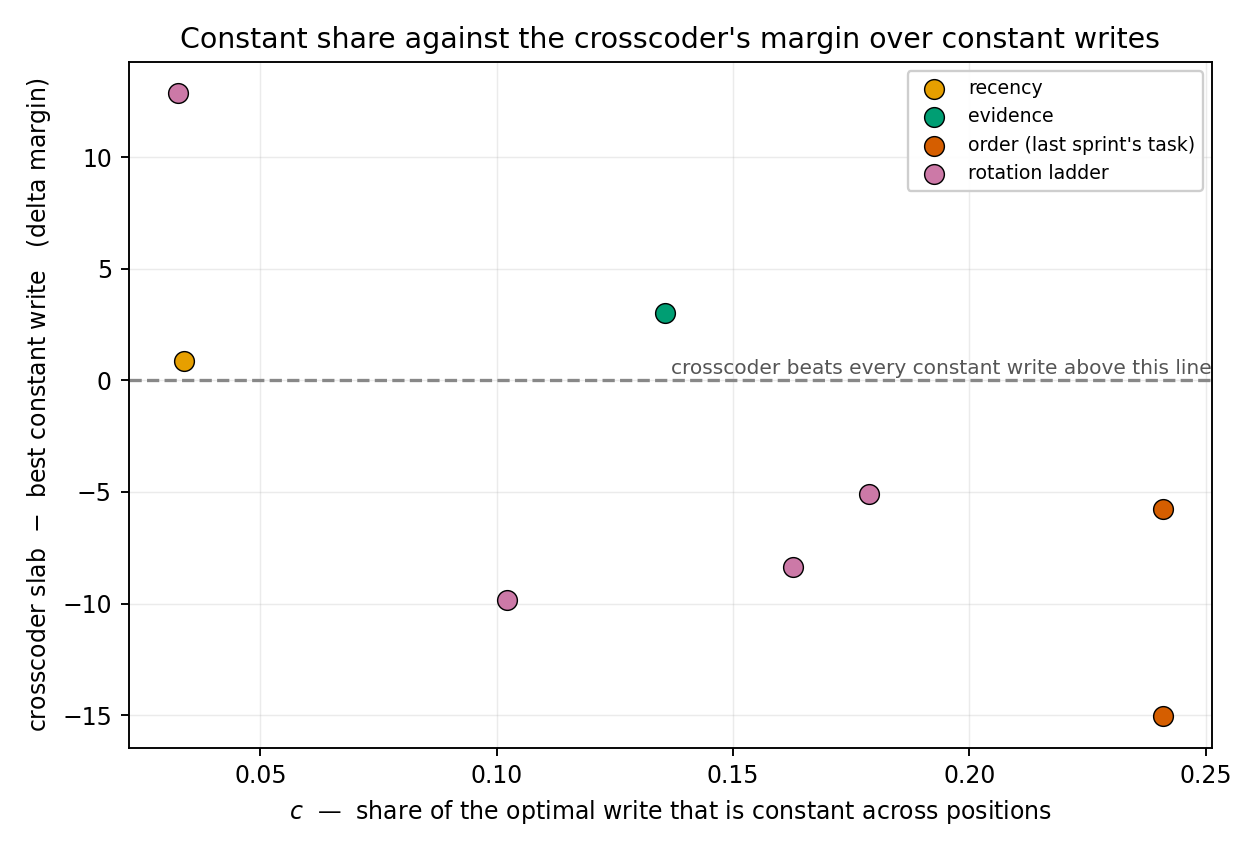
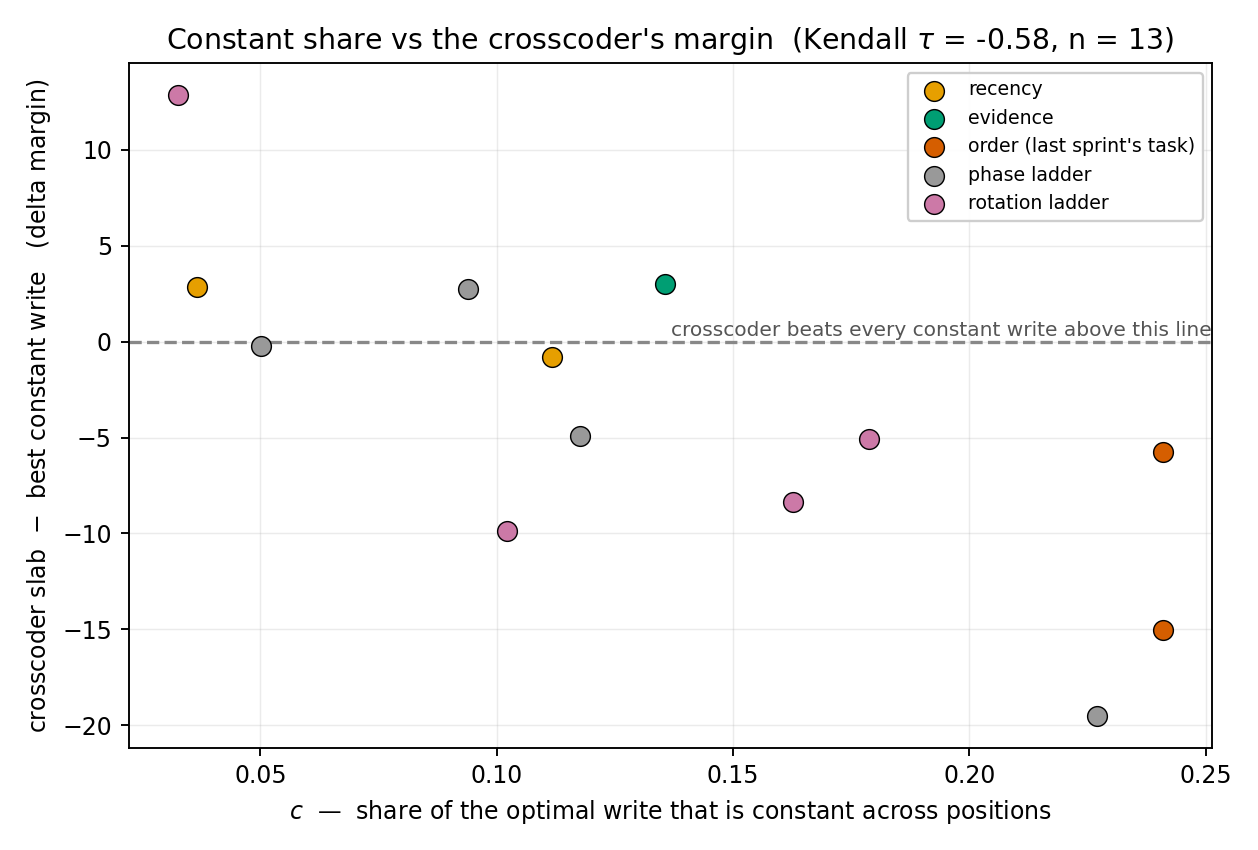
txcwins: c-gate figure reports Kendall tau; drop the reduced validation config

diff --git a/scripts/plot_c_gate.py b/scripts/plot_c_gate.py
@@ -76,8 +76,8 @@ def main() -> int:
             if rg is None:
                 continue   # difference-of-means c is not the constant share of the metric
             arms = r["arms"]
-            if "txc_slab" not in arms:
-                continue
+            if "txc_slab" not in arms or r.get("n_train", 0) < 500:
+                continue   # drop the reduced-size validation config
             const = max((best(arms[a]) for a in CONSTANT_ARMS if a in arms), default=0.0)
             pts.append((rg["c"], best(arms["txc_slab"]) - const, label, colour,
                         "rank_grad" in r))
@@ -85,6 +85,17 @@ def main() -> int:
     if not pts:
         print("[skip] no runs with a rank measurement yet")
         return 1
+
+    # Rank correlation, reported because the relationship is a tendency and not a rule and
+    # the number is the honest way to say so.
+    import itertools
+    n = len(pts)
+    conc = dis = 0
+    for i, j in itertools.combinations(range(n), 2):
+        sgn = (pts[i][0] - pts[j][0]) * (pts[i][1] - pts[j][1])
+        conc += sgn > 0
+        dis += sgn < 0
+    tau = (conc - dis) / max(conc + dis, 1)
 
     fig, ax = plt.subplots(figsize=(7.4, 5.0))
     seen = set()
@@ -99,7 +110,8 @@ def main() -> int:
             fontsize=8.5, color="#555555", ha="right")
     ax.set_xlabel(r"$c$  —  share of the optimal write that is constant across positions")
     ax.set_ylabel("crosscoder slab  $-$  best constant write   (delta margin)")
-    ax.set_title("Constant share against the crosscoder's margin over constant writes")
+    ax.set_title(f"Constant share vs the crosscoder's margin  "
+                 f"(Kendall $\\tau$ = {tau:+.2f}, n = {n})")
     ax.grid(alpha=0.25, lw=0.6)
     ax.legend(loc="upper right", fontsize=8, framealpha=0.95)
     fig.tight_layout()
